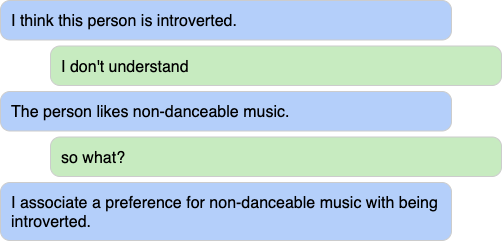
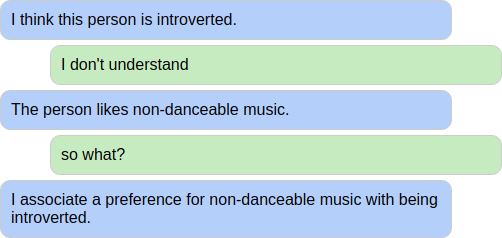
readme: Make figures transparent

diff --git a/doc/generate.js b/doc/generate.js
@@ -62,7 +62,7 @@ const { exec } = require('child_process');
 
     console.log(`Screenshot saved for ${file} as ${screenshotPath}`);
 
-    exec(`convert "${screenshotPath}" -trim "${screenshotPath}"`, (error, stdout, stderr) => {
+    exec(`convert "${screenshotPath}" -trim -transparent white "${screenshotPath}"`, (error, stdout, stderr) => {
       if (error) {
         console.error(`Error during trimming: ${error.message}`);
         return;
